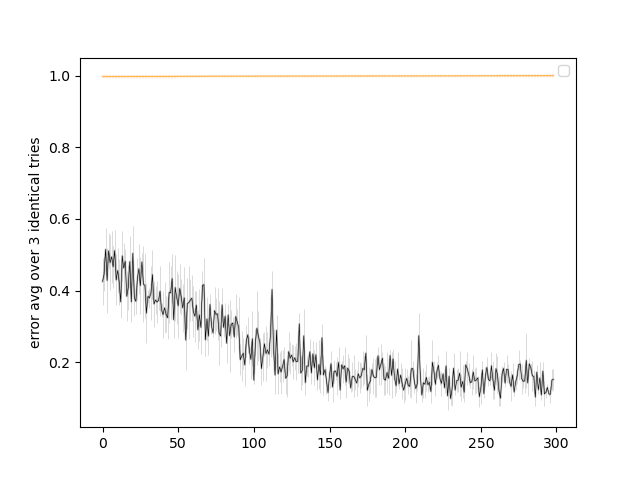
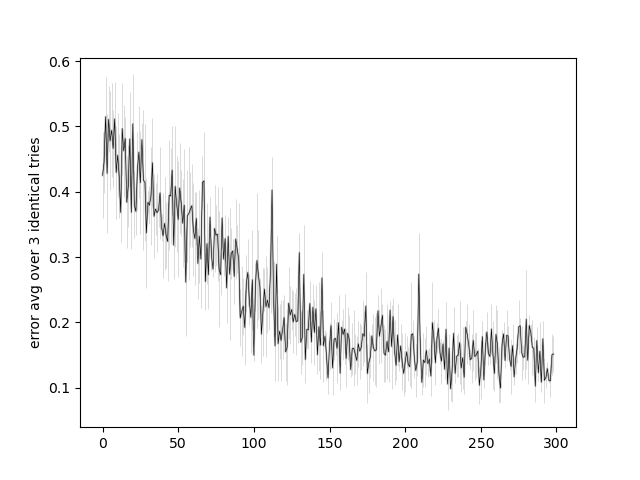
now does 2 plots

diff --git a/plit.py b/plit.py
@@ -3,6 +3,7 @@ from matplotlib import pyplot as plt
 import matplotlib
 #matplotlib.use("TkAgg")
 import os
+import pandas as pd
 os.system("rm bilder/plit_temp/*")
 nrt=25
 aAms=[]
@@ -42,20 +43,23 @@ for tracker in range(2):
 
     aAms.append(aAm)
     yerrs.append(yerr)
-#plt.plot(sliding_av,color=(1,0,0,1),label="sliding avg")
 
+#df=pd.DataFrame({"A":aAms[0],"B":aAms[1]})
+#df.A.plot(yerr=yerrs[0], capsize=2, style="o",markersize=10,linewidth=.5)
+#df.B.plot(yerr=yerrs[1],secondary_y=True,capsize=2,color=(1,.5,0,.2))
+#plt.legend()
+#plt.plot()
+plt.figure()
 plt.plot(aAms[0],color="black",linewidth=.4)
 plt.errorbar(x=range(len(aAms[0])),y=aAms[0], yerr=yerrs[0],color=(0,0,0,.2),elinewidth=.5)
 plt.ylabel("error avg over "+str(nrtries)+" identical tries")
-
-plt.plot(aAms[1],color="orange",linewidth=.4)
-plt.errorbar(x=range(len(aAms[1])),y=aAms[1], yerr=yerrs[1],color=(1,.5,0,.2),elinewidth=.5)
-plt.ylabel("error avg over "+str(nrtries)+" identical tries")
-
-
-
-plt.legend()
 plitstring="lasterr"+str(round(lasterr,3))+"+-"+str(round(lasterrerr,3))
 plt.savefig("bilder/plit_temp/this"+plitstring+".png")
+
+plt.figure()
+plt.plot(aAms[1],color="orange",linewidth=.4)
+plt.errorbar(x=range(len(aAms[1])),y=aAms[1], yerr=yerrs[1],color=(1,.5,0,.2),elinewidth=.5)
+plt.ylabel("G avg over "+str(nrtries)+" identical tries")
+plt.savefig("bilder/plit_temp/that"+plitstring+".png")
 plt.show()
 

diff --git a/reservoir.py b/reservoir.py
@@ -81,7 +81,7 @@ Wi.connect_all_to_all(weights=Uniform(-0.2, 0.2))
 
 
 # Recurrent weights
-g = 1.0 #1.0
+g = 1.01 #1.0
 Wrec = Projection(pop,pop,'exc',synapse)  #pop[0:(N-28)], pop, 'exc', synapse)
 #Wrec.connect_from_file(filename='Wrec.data')
 Wrec.connect_all_to_all(weights=Normal(0., g/np.sqrt(N)), allow_self_connections=True)
